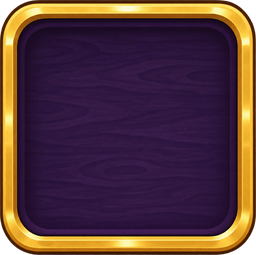
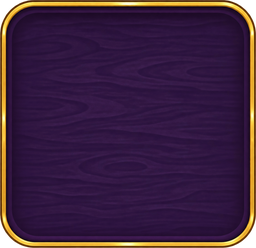
도깨비 대모험: 얇은 테두리 정보창·칸 그림으로 교체, 경험치 %는 능력치 창에만
Claude-Session: https://claude.ai/code/session_01TJDp5Xqu6Miqaqp15v7rcr

Changed region(s): [[0.0, 0.0, 1.0, 1.0], [0.5312, 0.1129, 0.6562, 0.1411]]

diff --git a/rpg/index.html b/rpg/index.html
@@ -132,6 +132,7 @@
   #spfill.bow { background:linear-gradient(#9ff0b8,#2fae62); } #spfill.mage { background:linear-gradient(#9ec9ff,#3a6fe0); } #spfill.tank { background:linear-gradient(#ff8a8a,#a3242f); } #xpfill { background:linear-gradient(#ffe27a,#f0b21c); }
   .gauge span { position:absolute; inset:0; text-align:center; color:#fff; font-family:Fredoka,sans-serif; font-size:14px; line-height:16px; text-shadow:0 1px 2px #000; }
   .gauge.xp span { font-size:11px; line-height:11px; }
+  #xptxt { display:none; }   /* 경험치 %는 능력치 창(C)에서만 */
   .stat { display:flex; flex-direction:column; align-items:center; font-size:12px; color:var(--ink2); line-height:1.1; min-width:44px; }
   .stat b { font-family:Fredoka,sans-serif; font-size:19px; color:var(--ink); font-weight:600; }
   .stat img { width:22px; height:22px; }
@@ -292,9 +293,9 @@
   .pstat, .pbtns { display:contents; } #plog { display:none; }
   @media (min-width:761px) and (min-height:521px) {
     :root { --dock:160px; }
-    #bar { left:0; right:0; bottom:14px; transform:none; width:auto; height:calc(var(--dock) - 14px); border-radius:0; border:0 solid transparent; padding:24px 84px 14px; gap:14px; align-items:stretch;
+    #bar { left:0; right:0; bottom:14px; transform:none; width:auto; height:calc(var(--dock) - 14px); border-radius:0; border:0 solid transparent; padding:16px 92px 14px; gap:14px; align-items:stretch;
       background:#2a1c3c; box-shadow:0 -4px 14px rgba(0,0,0,.45);
-      border-image:url(img/ui-dock.png?v=1) 66 175 22 175 fill / 36px 84px 12px 84px / 23px 0 0 0 stretch; }   /* 금테·단청 틀 그림 (양 끝 장식, 가운데는 늘어남) */
+      border-image:url(img/ui-dock.png?v=2) 12 130 14 130 fill / 8px 90px 10px 90px stretch; }   /* 금테·단청 틀 그림 (양 끝 장식, 가운데는 늘어남) */
     #bar.drop { background:linear-gradient(#5a4a1a,#2e2410); }
     #bar .pstat { display:flex; flex-wrap:wrap; align-content:center; gap:8px 10px; width:min(290px, 26vw); flex:none; }
     #bar #lvbox { width:58px; height:58px; } #bar #lv { font-size:24px; } #bar #lvbox small { font-size:12px; }
@@ -305,8 +306,8 @@
     #bar .gauge.xp { position:fixed; left:0; right:0; bottom:0; height:14px; border:0; border-top:2px solid #0d0a14; border-radius:0; background:#241b2c; }
     #bar .gauge.xp span { font-size:11px; line-height:12px; }
     #pmini { flex:none; width:196px; }
-    #miniwrap { top:auto; right:calc(84px + 266px + 14px); bottom:calc(14px + 14px); width:196px; z-index:2; }
-    #miniring { width:196px; height:calc(var(--dock) - 14px - 38px); }
+    #miniwrap { top:auto; right:calc(92px + 266px + 14px); bottom:calc(14px + 14px); width:196px; z-index:2; }
+    #miniring { width:196px; height:calc(var(--dock) - 14px - 30px); }
     #mini { border-radius:6px; border:2px solid #c9a24a; box-sizing:border-box; box-shadow:inset 0 0 8px rgba(0,0,0,.5); }
     #topinfo { position:fixed; top:12px; left:50%; right:auto; transform:translateX(-50%); width:auto; min-width:240px; justify-content:center; gap:14px; padding:6px 18px 4px; }   /* 지역 이름: 화면 가운데 위 */
     #topinfo .chip { text-align:center; font-size:19px; }
@@ -320,7 +321,7 @@
     #plog b { font-weight:normal; color:#ffe27a; } #plog .warn { color:#ffb3b3; } #plog .item b { color:#9fffb4; } #plog .boss { color:#ffcf5a; } #plog .sys { color:#cfe6ff; } #plog .dim { color:#b8b0cc; }
     #log { display:none; }
     #bar .pbtns { display:grid; grid-template-columns:repeat(4, 62px); grid-auto-rows:1fr; gap:6px; flex:none; }
-    #bar .bbtn { width:auto; min-width:0; height:auto; border:0 solid transparent; border-radius:12px; background:none; border-image:url(img/ui-slot.png?v=1) 48 fill / 12px stretch; color:#ffe9a8; font-size:13px; }
+    #bar .bbtn { width:auto; min-width:0; height:auto; border:0 solid transparent; border-radius:12px; background:none; border-image:url(img/ui-slot.png?v=2) 36 fill / 10px stretch; color:#ffe9a8; font-size:13px; }
     #bar .bbtn:hover { filter:brightness(1.25); }
     #bar .bbtn kbd { color:#c9a24a; left:10px; top:7px; } #bar .bbtn .n { color:#fff; text-shadow:0 1px 2px #000; right:10px; bottom:7px; font-size:12px; }   /* 금테 안쪽으로 */
     #bar .bbtn { padding:10px 8px; gap:0; } #bar .bbtn img { width:26px; height:26px; } #bar .bbtn svg { width:20px; height:20px; }

diff --git a/rpg/game.js b/rpg/game.js
@@ -1309,7 +1309,7 @@ function renderChar() {
   const [a, b] = weaponRange(P.eq.weapon), sb = strBonus();
   const row = (k, n, d) => `<div class="st"><span>${n}</span><b>${P[k]}${accBonus(k) ? `<small> +${accBonus(k)}</small>` : ''}</b>${P.pts > 0 ? `<button class="plus" data-st="${k}">+</button>` : ''}<em>${d}</em></div>`;
   $('char-body').innerHTML =
-    `${P.name ? `<div class="nmline"><i class="nm" style="color:${nameColor(P.lv)}">${esc(P.name)}</i></div>` : ''}<div class="lvline">Lv ${P.lv} <span>${P.lv >= MAX_LV ? '최고 레벨' : `경험치 ${P.exp.toLocaleString()} / ${needExp(P.lv).toLocaleString()}`}</span></div>` +
+    `${P.name ? `<div class="nmline"><i class="nm" style="color:${nameColor(P.lv)}">${esc(P.name)}</i></div>` : ''}<div class="lvline">Lv ${P.lv} <span>${P.lv >= MAX_LV ? '최고 레벨' : `경험치 ${P.exp.toLocaleString()} / ${needExp(P.lv).toLocaleString()} (${(P.exp / needExp(P.lv) * 100).toFixed(1)}%)`}</span></div>` +
     row('str', '힘', `데미지 ${sb >= 0 ? '+' : ''}${sb}`) + row('dex', '민첩', `명중 +${hitBonus()}% · 치명타 ${critRate()}%`) + row('con', '체력', `최대 HP ${maxHP()}`) +
     (P.pts > 0 ? `<div class="ptsline">보너스 능력치 <b>${P.pts}</b>점을 찍을 수 있어요</div>` : '') +
     `<div class="sum"><div><span>공격</span><b>${a + sb === b + sb ? a + sb : (a + sb) + '~' + (b + sb)}</b></div><div><span>AC</span><b>${playerAC()}</b></div><div><span>HP</span><b>${Math.max(0, Math.ceil(P.hp))}/${maxHP()}</b></div></div>` +
